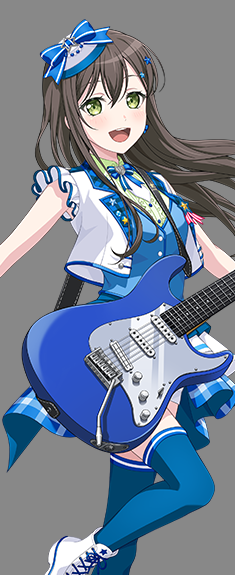
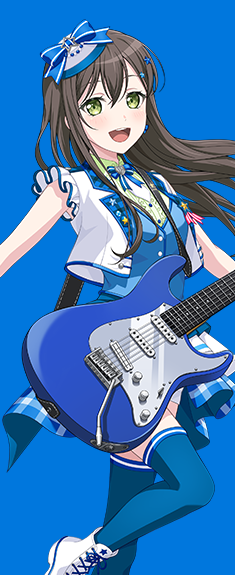
[change]TOP｜キャラアセット差し替え、不要なダミーjsonデータ削除、「枚」表記をトリ

diff --git a/htdocs/src/js/generate/index.js b/htdocs/src/js/generate/index.js
@@ -663,9 +663,7 @@ const drawGraph = (ctx, clearRateData = {}) => {
     const rate = total > 0 ? (cleared / total) * 100 : 0;
     const clampedRate = Math.max(0, Math.min(rate, 100));
     const renderedRate =
-      clampedRate > 0
-        ? Math.max(clampedRate, GRAPH_STYLE.minBarRate)
-        : 0;
+      clampedRate > 0 ? Math.max(clampedRate, GRAPH_STYLE.minBarRate) : 0;
 
     const barHeight = ((chartBottom - chartTop) * renderedRate) / 100;
     const x = chartLeft + 27 + index * (barWidth + barGap);

diff --git a/htdocs/src/js/common/loading.js b/htdocs/src/js/common/loading.js
@@ -104,7 +104,7 @@ document.addEventListener('DOMContentLoaded', function () {
       renderer: 'svg',
       loop: true,
       autoplay: false,
-      path: '../assets/data/json/loading.json',
+      path: '/circle-newsletter/assets/data/json/loading.json',
     });
   }
 

diff --git a/htdocs/develop/index.php b/htdocs/develop/index.php
@@ -6,9 +6,9 @@ if (!isset($_GET['json_param']) || $_GET['json_param'] === '') {
 }
 
 // json_param を復号・展開して PHP 配列として取得
-$rawJson      = null;
-$parsedData   = null;
-$decodeError  = null;
+$rawJson = null;
+$parsedData = null;
+$decodeError = null;
 
 function base64url_decode(string $data)
 {
@@ -28,12 +28,18 @@ function decode_json_param(string $param)
   }
 
   $key = 'gbp_9th_Z2JwXzl0';
-  $iv  = 'gbp_9th_oAa0lzXw';
+  $iv = 'gbp_9th_oAa0lzXw';
 
-  while (openssl_error_string() !== false) {}
+  while (openssl_error_string() !== false) {
+  }
 
-  $plain = openssl_decrypt($cipher, 'AES-128-CBC', $key, OPENSSL_RAW_DATA | OPENSSL_ZERO_PADDING, $iv);
-
+  $plain = openssl_decrypt(
+    $cipher,
+    'AES-128-CBC',
+    $key,
+    OPENSSL_RAW_DATA | OPENSSL_ZERO_PADDING,
+    $iv
+  );
   if ($plain === false) {
     throw new Exception('AES 復号に失敗しました。');
   }
@@ -52,19 +58,31 @@ function decode_json_param(string $param)
 
 function formatDate(string $dateStr): string
 {
-  if (strlen($dateStr) !== 8) return $dateStr;
+  if (strlen($dateStr) !== 8) {
+    return $dateStr;
+  }
   return substr($dateStr, 0, 4) . '年' . substr($dateStr, 4, 2) . '月' . substr($dateStr, 6, 2) . '日';
 }
 
 function getDifficultyName(int $level): string
 {
-  $names = [1 => 'EASY', 2 => 'NORMAL', 3 => 'HARD', 4 => 'EXPERT', 5 => 'SPECIAL'];
+  $names = [
+    1 => 'EASY',
+    2 => 'NORMAL',
+    3 => 'HARD',
+    4 => 'EXPERT',
+    5 => 'SPECIAL',
+  ];
   return $names[$level] ?? "Lv.{$level}";
 }
 
 function getStoryTypeName(int $type): string
 {
-  $names = [1 => 'メインストーリー', 2 => 'バンドストーリー', 3 => 'イベントストーリー'];
+  $names = [
+    1 => 'メインストーリー',
+    2 => 'バンドストーリー',
+    3 => 'イベントストーリー',
+  ];
   return $names[$type] ?? "種別{$type}";
 }
 
@@ -186,6 +204,11 @@ $user = $d['0'] ?? [];
   <!-- Google Tag Manager (noscript) -->
   <noscript><iframe src="https://www.googletagmanager.com/ns.html?id=GTM-WKM95WS" height="0" width="0" style="display: none; visibility: hidden"></iframe></noscript>
   <!-- End Google Tag Manager (noscript) -->
+  <div class="common__lock">
+    <div class="common__lock-inner">
+      <img src="./assets/img/common/popup.png" alt="スマートフォンを縦向きにして閲覧してください">
+    </div>
+  </div>
   <main class="common__main">
     <div class="common__bg sp-none"></div>
     <div class="common__loading">
@@ -286,7 +309,7 @@ $user = $d['0'] ?? [];
                     <h3>集めたメンバー</h3>
                     <div class="top-player__data-dtl">
                       <p class="top-player__data-txt">
-                        <span class="number"></span> 枚
+                        <span class="number"></span>
                       </p>
                     </div>
                   </div>
@@ -419,10 +442,7 @@ $user = $d['0'] ?? [];
             <div class="common__inner">
               <h2 class="top-flyer__h2"> あなたの<span>社内報</span>はこちら！ </h2>
               <div class="top-flyer__img">
-                <img
-                    src=""
-                    alt="あなたの社内報はこちら！"
-                  >
+                <img src="" alt="あなたの社内報はこちら！">
               </div>
               <p class="top-flyer__txt">
                 <img
@@ -430,6 +450,9 @@ $user = $d['0'] ?? [];
                     alt="画像を長押しして保存してね！"
                   >
               </p>
+              <button class="top-flyer__btn">
+                <span>画像をダウンロード</span>
+              </button>
             </div>
           </section>
           <div class="top__share">
@@ -519,70 +542,6 @@ $user = $d['0'] ?? [];
       </div>
     </article>
   </main>
-  <script>
-      var data = [
-        {
-          1: 1001,
-          2: '新人スタッフ',
-          3: '20160108',
-        },
-        3052,
-        {
-          1: 3,
-          2: 1,
-          3: '約束のキャンディ',
-        },
-        {
-          1: 'ときめきエクスペリエンス！',
-          2: 'キラキラだとか夢だとか ～Sing Girls～',
-          3: 'YAPPY！SCHOOL CARNIVAL☆彡',
-          4: "What's the POPIPA!?",
-          5: '誓いのWingbeat',
-        },
-        {
-          1: 512,
-          2: 780,
-        },
-        1,
-        {
-          1: {
-            1: 740,
-            2: 752,
-          },
-          2: {
-            1: 651,
-            2: 752,
-          },
-          3: {
-            1: 501,
-            2: 752,
-          },
-          4: {
-            1: 97,
-            2: 752,
-          },
-          5: {
-            1: 15,
-            2: 431,
-          },
-        },
-        {
-          1: 'ときめきエクスペリエンス！',
-          2: 52,
-        },
-        {
-          1: 'パスパレ探検隊～無人島を征くアイドル～',
-          2: 4192,
-        },
-        {
-          1: 40,
-          2: 5,
-          3: 442,
-        },
-        72,
-        'オトモダチフィルム',
-      ];
-    </script>
   <script src="https://cdnjs.cloudflare.com/ajax/libs/lottie-web/5.12.2/lottie.min.js"></script>
   <script src="./assets/js/project.js"></script>
 </body>

diff --git a/htdocs/php/index.php b/htdocs/php/index.php
@@ -1,6 +1,4 @@
 <?php
-ob_start(); // 出力バッファリング開始（警告出力によるheader()失敗を防止）
-
 // パラメータがない場合はエラーページにリダイレクト
 if (!isset($_GET['json_param']) || $_GET['json_param'] === '') {
   header('Location: ./error/');
@@ -49,7 +47,8 @@ function decode_json_param(string $param)
   if (!function_exists('bzdecompress')) {
     throw new Exception('bzip2(bz2) 拡張が有効ではありません。');
   }
-  $decompressed = @bzdecompress($plain); // @で警告を抑制
+
+  $decompressed = bzdecompress($plain);
   if (!is_string($decompressed)) {
     throw new Exception("bzip2 解凍に失敗しました。");
   }
@@ -141,7 +140,7 @@ try {
     throw new Exception('JSON デコードに失敗しました: ' . json_last_error_msg());
   }
 } catch (Throwable $e) {
-  header('Location: ./error/');
+  header('Location: ./error/?msg=' . urlencode($e->getMessage()));
   exit;
 }
 
@@ -310,7 +309,7 @@ $user = $d['0'] ?? [];
                     <h3>集めたメンバー</h3>
                     <div class="top-player__data-dtl">
                       <p class="top-player__data-txt">
-                        <span class="number"></span> 枚
+                        <span class="number"></span>
                       </p>
                     </div>
                   </div>
@@ -445,6 +444,12 @@ $user = $d['0'] ?? [];
               <div class="top-flyer__img">
                 <img src="" alt="あなたの社内報はこちら！">
               </div>
+              <p class="top-flyer__txt">
+                <img
+                    src="./assets/img/txt_save.png"
+                    alt="画像を長押しして保存してね！"
+                  >
+              </p>
               <button class="top-flyer__btn">
                 <span>画像をダウンロード</span>
               </button>
@@ -540,7 +545,7 @@ $user = $d['0'] ?? [];
   <script>
       var data = [
         {
-          1: 1001,
+          1: 1003,
           2: '新人スタッフ',
           3: '20160108',
         },
